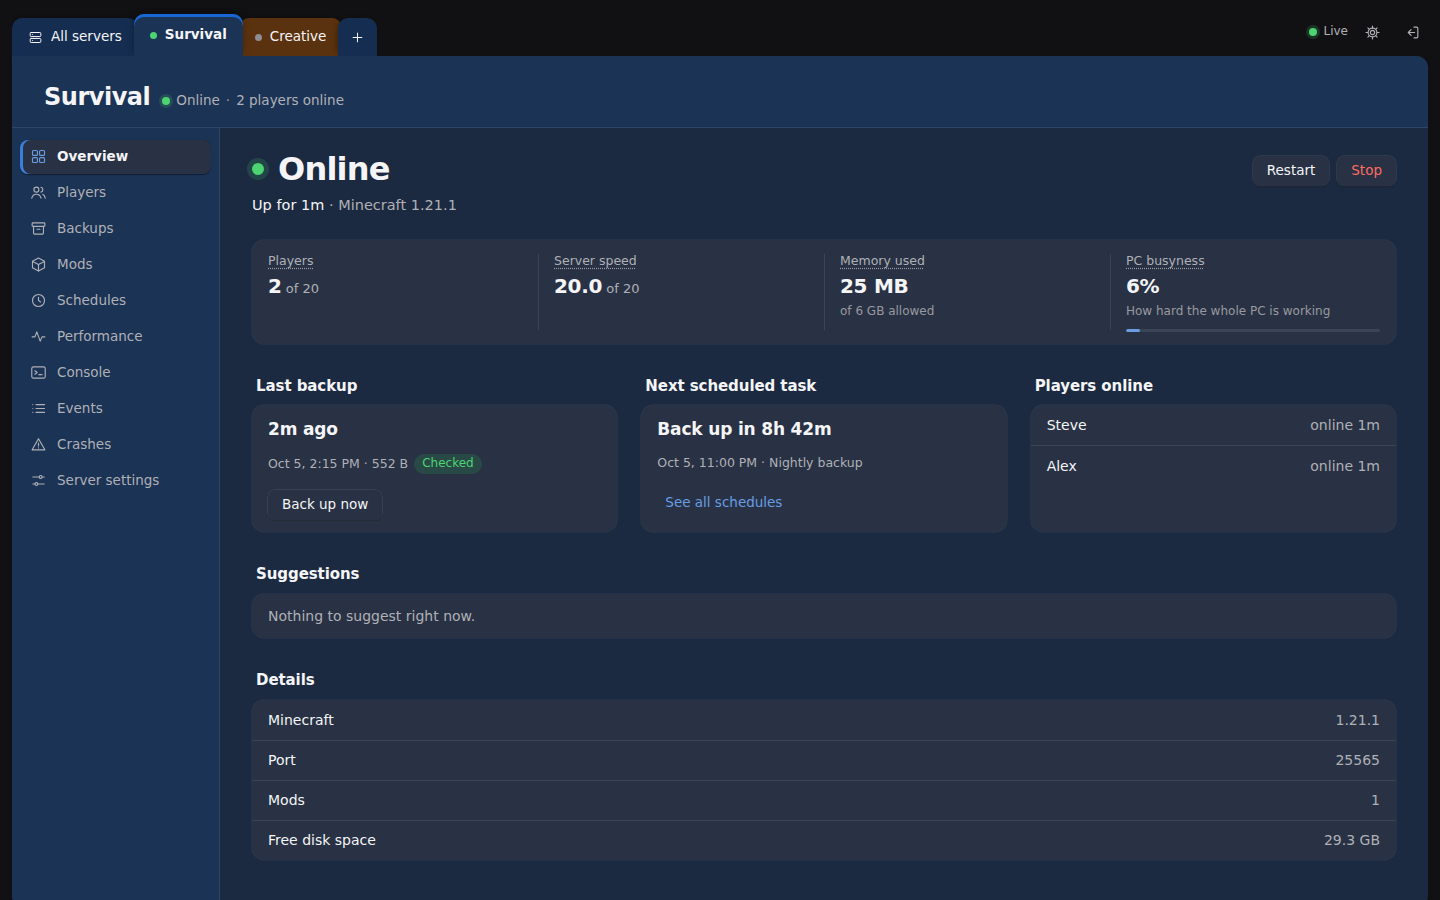
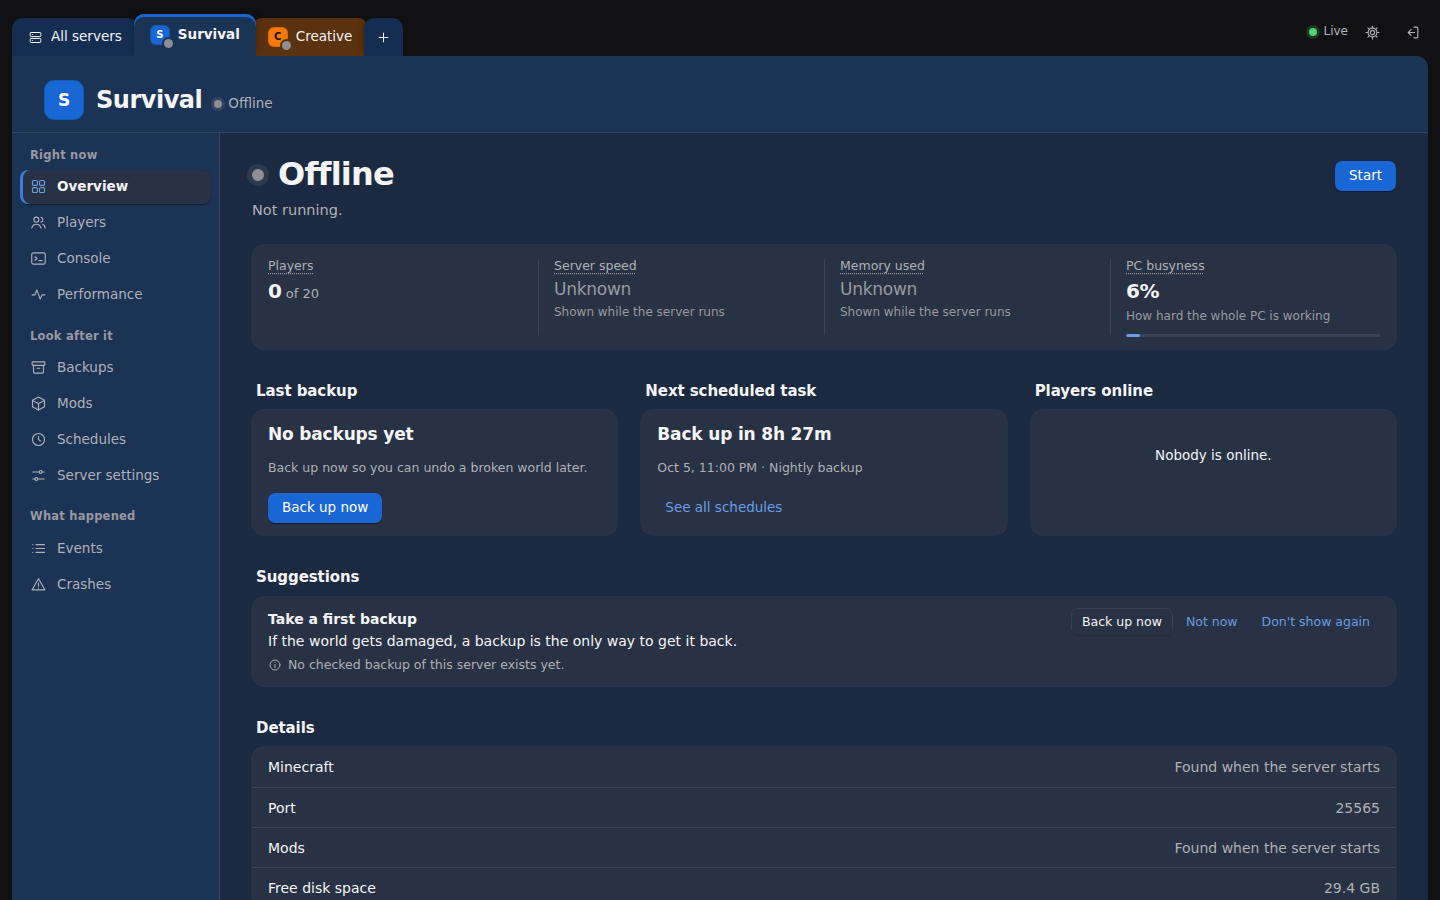
Give the dashboard more personality: server badges, grouped side list, status in the browser tab
- Each server gets a badge (its initials on its color) in its tab, with a
  status dot on the corner, before its name at the top of the page, and on
  its All servers card.
- The side list is grouped under small labels: Right now / Look after it /
  What happened (Live / Manage / History in Technical).
- The browser tab's title names the server's state and its icon gets a
  status dot, so a server can be watched from another tab.
- A crashed server's All servers card is outlined in red.
- Numbers use tabular figures so they line up and don't shift as they update.

diff --git a/agent/web/styles.css b/agent/web/styles.css
@@ -342,6 +342,29 @@ input[type="checkbox"], input[type="radio"] { accent-color: var(--accent); width
 }
 .tab.selected:focus-visible { box-shadow: inset 0 3px 0 var(--tab-edge, var(--accent-edge)), inset 0 0 0 2px var(--accent-ring); }
 .tab .status-dot { width: 7px; height: 7px; box-shadow: none; }
+
+/* A server's badge: its initials on its color (Arc's space icons, Linear's
+   team icons), with its state as a dot on the corner in the tabs. */
+.server-badge {
+  position: relative;
+  display: inline-grid; place-items: center; flex-shrink: 0;
+  width: 26px; height: 26px;
+  border-radius: 7px;
+  background: var(--badge-fill, var(--neutral));
+  color: var(--badge-text, #FFFFFF);
+  font-size: 12px; font-weight: 700; letter-spacing: 0.01em; line-height: 1;
+  box-shadow: inset 0 0 0 1px rgba(0, 0, 0, 0.12);
+  user-select: none;
+}
+.server-badge.sm { width: 20px; height: 20px; border-radius: 6px; font-size: 10px; }
+.server-badge.lg { width: 40px; height: 40px; border-radius: 10px; font-size: 17px; letter-spacing: -0.01em; }
+.server-badge .badge-dot {
+  position: absolute; right: -3px; bottom: -3px;
+  width: 9px; height: 9px;
+  box-shadow: 0 0 0 2px var(--tab-fill, var(--tab-neutral));
+}
+.tab.selected .server-badge .badge-dot { box-shadow: 0 0 0 2px var(--accent-band); }
+.server-badge .badge-dot.pulse { animation: none; }
 .tab.add-tab { padding: 0 12px; }
 .tab-badge {
   display: inline-grid; place-items: center;
@@ -397,7 +420,8 @@ input[type="checkbox"], input[type="radio"] { accent-color: var(--accent); width
   background: var(--accent-band);
   border-radius: 0 var(--radius-lg) 0 0;
 }
-.sheet-id { display: flex; align-items: baseline; gap: var(--space-3); flex-wrap: wrap; }
+.sheet-id { display: flex; align-items: center; gap: var(--space-3); min-width: 0; }
+.sheet-titles { display: flex; align-items: baseline; gap: 4px var(--space-3); flex-wrap: wrap; min-width: 0; }
 .sheet-name { font-family: var(--font-display); font-size: 24px; font-weight: 650; letter-spacing: -0.02em;
               min-width: 0; overflow-wrap: anywhere; }
 .sheet-state { display: inline-flex; align-items: center; gap: 6px; color: var(--text-secondary); font-size: 13.5px; }
@@ -414,6 +438,14 @@ input[type="checkbox"], input[type="radio"] { accent-color: var(--accent); width
   border-radius: 0 0 0 var(--radius-lg);
 }
 .subnav[hidden] { display: none; }
+/* small group labels in the list, like Linear's sidebar */
+.nav-group { display: flex; flex-direction: column; gap: 2px; }
+.nav-group + .nav-group { margin-top: var(--space-3); }
+.nav-group-label {
+  padding: 2px 10px 4px;
+  color: var(--text-tertiary);
+  font-size: 11.5px; font-weight: 600; letter-spacing: 0.02em;
+}
 .nav-item {
   display: flex; align-items: center; gap: 10px;
   min-height: 34px;
@@ -622,7 +654,10 @@ input[type="checkbox"], input[type="radio"] { accent-color: var(--accent); width
 .server-card:focus-visible { box-shadow: inset 0 4px 0 var(--card-color, var(--accent-edge)), var(--focus); border-radius: var(--radius-lg); }
 .server-card-head { display: flex; align-items: center; gap: var(--space-2); margin-top: 4px; }
 .server-card-head strong { flex: 1; min-width: 0; font-size: 15.5px; overflow: hidden; text-overflow: ellipsis; white-space: nowrap; }
-.server-card .swatch { width: 12px; height: 12px; background: var(--card-color, var(--accent-edge)); }
+/* a server that crashed says so from the card itself (Railway's canvas) */
+.server-card.needs-attention { box-shadow: inset 0 4px 0 var(--card-color, var(--accent-edge)), 0 0 0 1.5px var(--danger); }
+.server-card.needs-attention:focus-visible { box-shadow: inset 0 4px 0 var(--card-color, var(--accent-edge)), var(--focus); }
+.server-card.needs-attention .pill { color: var(--danger); font-weight: 600; }
 .facts { display: grid; grid-template-columns: auto 1fr; gap: 4px var(--space-4); margin: var(--space-3) 0 0; font-size: 13px; }
 .facts dt { color: var(--text-secondary); }
 .facts dd { margin: 0; text-align: right; }
@@ -819,7 +854,9 @@ p.hint { margin: var(--space-2) 0 0; }
 
 /* ------------------------------------------------------------------ tables */
 .table-wrap { overflow-x: auto; -webkit-overflow-scrolling: touch; }
-table { width: 100%; border-collapse: collapse; font-size: 13.5px; }
+table { width: 100%; border-collapse: collapse; font-size: 13.5px; font-variant-numeric: tabular-nums; }
+/* numbers line up and don't jiggle as they update (Vercel's dashboards) */
+.stat .value, .facts dd, .sheet-state, .jobs, .num { font-variant-numeric: tabular-nums; }
 th { text-align: left; font-weight: 500; font-size: 12px; color: var(--text-secondary);
      padding: 9px var(--space-4) 7px; border-bottom: 1px solid var(--border); white-space: nowrap; }
 td { padding: 9px var(--space-4); border-bottom: 1px solid var(--border); vertical-align: middle; }
@@ -996,6 +1033,11 @@ td .btn-row { flex-wrap: nowrap; justify-content: flex-end; }
   .subnav::-webkit-scrollbar { display: none; }
   .nav-item { flex-shrink: 0; min-height: 36px; white-space: nowrap; }
   .nav-item .icon { display: none; }
+  .nav-group { flex-direction: row; flex-shrink: 0; }
+  .nav-group + .nav-group { margin-top: 0; margin-left: var(--space-2); padding-left: var(--space-2);
+                            border-left: 1px solid var(--border); }
+  .nav-group-label { display: none; }
+  .server-badge.lg { width: 32px; height: 32px; border-radius: 8px; font-size: 14px; }
   .nav-item[aria-current="page"] { box-shadow: inset 0 -2.5px 0 var(--accent-ring), var(--shadow-control); }
   .sheet-body { padding: var(--space-4) var(--space-4) var(--space-7); }
   .toolbar { flex-wrap: wrap; }

diff --git a/agent/web/js/nav.js b/agent/web/js/nav.js
@@ -5,10 +5,10 @@
 
 import { signOut } from "./auth.js";
 import { applyServerColor } from "./colors.js";
-import { setLink, updateStatusViews } from "./live.js";
+import { setLink, updateStatusViews, updateTitle } from "./live.js";
 import { overview } from "./pages/overview.js";
 import { hooks as prefHooks } from "./prefs.js";
-import { hooks, renderTabs, serverRow, jobsIndicator } from "./servers.js";
+import { hooks, renderTabs, serverBadge, serverRow, jobsIndicator } from "./servers.js";
 import { PAGES, pageEntry, renderers, stateInfo, state } from "./state.js";
 import { t } from "./strings.js";
 import { $, el, icon } from "./ui.js";
@@ -41,8 +41,26 @@ function renderHead() {
   }
   const row = serverRow();
   head.replaceChildren(el("div", { class: "sheet-id" },
-    el("span", { class: "sheet-name", id: "sheet-name" }, row ? row.name : ""),
-    el("span", { class: "sheet-state", id: "sheet-state" })));
+    row ? serverBadge(row, { size: "lg" }) : null,
+    el("div", { class: "sheet-titles" },
+      el("span", { class: "sheet-name", id: "sheet-name" }, row ? row.name : ""),
+      el("span", { class: "sheet-state", id: "sheet-state" }))));
+}
+
+/* The server's pages in three small groups, so the list reads at a glance:
+   what is happening now, looking after the server, and what happened. */
+const NAV_GROUPS = [
+  ["nav.group_live", ["dashboard", "players", "console", "performance"]],
+  ["nav.group_manage", ["backups", "mods", "schedules", "settings"]],
+  ["nav.group_history", ["events", "crashes"]],
+];
+
+function navLink([key, label, , iconName]) {
+  return el("a", {
+    class: "nav-item", href: `#${key}`,
+    "aria-current": state.page === key ? "page" : null,
+    onclick: (event) => { event.preventDefault(); navigate(key); },
+  }, icon(iconName), el("span", { class: "nav-label" }, t(label)));
 }
 
 function renderSubnav() {
@@ -50,11 +68,18 @@ function renderSubnav() {
   const items = PAGES.filter(([, , scope]) => scope === state.scope && scope !== "all" && scope !== "add");
   nav.hidden = !items.length;
   nav.setAttribute("aria-label", state.scope === "server" ? t("nav.server_pages") : t("nav.app_pages"));
-  nav.replaceChildren(...items.map(([key, label, , iconName]) => el("a", {
-    class: "nav-item", href: `#${key}`,
-    "aria-current": state.page === key ? "page" : null,
-    onclick: (event) => { event.preventDefault(); navigate(key); },
-  }, icon(iconName), el("span", { class: "nav-label" }, t(label)))));
+  if (state.scope !== "server") {
+    nav.replaceChildren(...items.map(navLink));
+  } else {
+    const grouped = new Set(NAV_GROUPS.flatMap(([, keys]) => keys));
+    const loose = items.filter(([key]) => !grouped.has(key));
+    nav.replaceChildren(...NAV_GROUPS.map(([labelKey, keys]) => {
+      const id = `nav-${labelKey.split("_").pop()}`;
+      const links = keys.map(pageEntry).filter(Boolean).map(navLink);
+      return el("div", { class: "nav-group", role: "group", "aria-labelledby": id },
+        el("span", { class: "nav-group-label", id }, t(labelKey)), ...links);
+    }), ...loose.map(navLink));
+  }
   const current = nav.querySelector('[aria-current="page"]');
   if (current) current.scrollIntoView({ block: "nearest", inline: "nearest" });
 }
@@ -101,11 +126,11 @@ export function render() {
   const page = $("#page");
   const entry = pageEntry(state.page) || pageEntry("dashboard");
   const title = t(entry[1]);
-  const row = state.scope === "server" ? serverRow() : null;
   $("#page-title").textContent = title;
   // the sheet's heading band names the page; the h1 is for screen readers
   $("#page-title").classList.add("sr-only");
-  document.title = row ? `${row.name} · ${title}` : `${title} · ${t("app.name")}`;
+  state.pageTitle = title;
+  updateTitle();
   clearTimers();
   overview.nodes = null;
   $("#toolbar-actions").replaceChildren();

diff --git a/agent/web/js/servers.js b/agent/web/js/servers.js
@@ -4,7 +4,7 @@
    through api() (see serverPath in api.js). */
 
 import { api } from "./api.js";
-import { derive } from "./colors.js";
+import { badgeColors, derive } from "./colors.js";
 import { renderers, stateInfo, state } from "./state.js";
 import { t, tn } from "./strings.js";
 import { $, el, emptyState, fmt, icon, known, loadInto } from "./ui.js";
@@ -53,6 +53,32 @@ export async function selectServer(id, page = null) {
   else if (switching && hooks.afterSwitch) hooks.afterSwitch();
 }
 
+/* ------------------------------------------------------------ badges */
+
+/* The server's initials: the first letters of its first two words, or the
+   first letter of a one-word name. */
+export function monogram(name) {
+  const words = String(name || "").split(/[^\p{L}\p{N}]+/u).filter(Boolean);
+  if (!words.length) return "";
+  const first = (word) => Array.from(word)[0].toLocaleUpperCase();
+  return words.length > 1 ? first(words[0]) + first(words[1]) : first(words[0]);
+}
+
+/* A small square in the server's color with its initials, so each server
+   is recognisable at a glance in the tabs, the header and the cards. With
+   a tone, a status dot sits on its corner. */
+export function serverBadge(s, { size = "", tone = null, busy = false } = {}) {
+  const badge = el("span", { class: `server-badge${size ? ` ${size}` : ""}`, "aria-hidden": "true" },
+    monogram(s.name),
+    tone ? el("span", { class: `badge-dot status-dot tone-${tone}${busy ? " pulse" : ""}` }) : null);
+  const colors = badgeColors(s.color);
+  if (colors) {
+    badge.style.setProperty("--badge-fill", colors.fill);
+    badge.style.setProperty("--badge-text", colors.text);
+  }
+  return badge;
+}
+
 /* ------------------------------------------------------------ the tabs */
 
 function serverTab(s, selected) {
@@ -67,8 +93,7 @@ function serverTab(s, selected) {
     title: `${s.name}: ${t(info.label)}`,
     onclick: () => selectServer(s.id, state.scope === "server" ? null : "dashboard"),
   },
-    el("span", { class: `status-dot tone-${crashed ? "danger" : info.tone}${info.busy ? " pulse" : ""}`,
-      "aria-hidden": "true" }),
+    serverBadge(s, { size: "sm", tone: crashed ? "danger" : info.tone, busy: info.busy }),
     el("span", { class: "tab-name" }, s.name),
     el("span", { class: "sr-only" }, `, ${crashed ? t("tabs.crashed") : t(info.label)}`),
     crashed ? el("span", { class: "tab-badge", "aria-hidden": "true" }, "!") : null);
@@ -160,11 +185,11 @@ renderers.servers = (page) => loadInto(page, async () => {
     const info = stateInfo(s.state);
     const running = ["ONLINE", "STARTING", "STOPPING"].includes(s.state);
     const card = el("button", {
-      class: "server-card", type: "button",
+      class: `server-card${info.tone === "danger" ? " needs-attention" : ""}`, type: "button",
       onclick: () => selectServer(s.id, "dashboard"),
     },
       el("div", { class: "server-card-head" },
-        el("span", { class: "swatch", "aria-hidden": "true" }),
+        serverBadge(s),
         el("strong", {}, s.name),
         el("span", { class: "pill" },
           el("span", { class: `status-dot tone-${info.tone}${info.busy ? " pulse" : ""}` }), t(info.label))),

diff --git a/agent/web/js/live.js b/agent/web/js/live.js
@@ -3,7 +3,8 @@ import { signOut } from "./auth.js";
 import { navigate, render, renderRail } from "./nav.js";
 import { appendConsoleLine, renderConsoleLines } from "./pages/console.js";
 import { loadLatestCrash, overviewConsoleAppend, overviewUpdate } from "./pages/overview.js";
-import { handleJobEvent, loadServers, selectServer, serverName, updateJobs } from "./servers.js";
+import { setFavicon } from "./colors.js";
+import { handleJobEvent, loadServers, selectServer, serverName, serverRow, updateJobs } from "./servers.js";
 import { stateInfo, state } from "./state.js";
 import { t } from "./strings.js";
 import { $, announce, el, known, toast } from "./ui.js";
@@ -223,5 +224,24 @@ export function updateStatusViews() {
     line.replaceChildren(...parts);
   }
   updateJobs();
+  updateTitle();
   if (state.page === "dashboard") overviewUpdate();
+}
+
+/* The browser tab says how the server is doing, so it can be checked from
+   another tab: the state in the title, and a status dot on the icon. */
+export function updateTitle() {
+  const page = state.pageTitle || t("app.name");
+  const row = state.scope === "server" ? serverRow() : null;
+  if (!row) {
+    document.title = `${page} · ${t("app.name")}`;
+    setFavicon(null);
+    return;
+  }
+  const name = state.status && state.status.state;
+  const info = name ? stateInfo(name) : null;
+  document.title = info && name !== "UNKNOWN" ? `${row.name} (${t(info.label)}) · ${page}` : `${row.name} · ${page}`;
+  const dot = info && info.tone !== "neutral"
+    ? getComputedStyle(document.documentElement).getPropertyValue(`--${info.tone}`).trim() : null;
+  setFavicon(row.color, dot);
 }

diff --git a/agent/web/js/colors.js b/agent/web/js/colors.js
@@ -175,14 +175,29 @@ export function applyServerColor(baseHex) {
   setFavicon(baseHex);
 }
 
-/* The browser tab's icon: the app's cube on the server's color. */
-export function setFavicon(baseHex) {
+/* A server's badge: its color as a fill, with text that reads on it. */
+export function badgeColors(baseHex) {
+  const base = rgb(baseHex);
+  if (!base) return null;
+  const { fill, text } = fillWithText(base);
+  return { fill: hex(fill), text: hex(text) };
+}
+
+/* The browser tab's icon: the app's cube on the server's color, with the
+   server's state as a dot in the corner when it has one (dotHex). */
+let lastFavicon = "";
+export function setFavicon(baseHex, dotHex = null) {
   const base = rgb(baseHex);
   const fill = base ? fillWithText(base) : { fill: [60, 60, 67], text: WHITE };
+  const dot = rgb(dotHex);
   const svg = `<svg xmlns="http://www.w3.org/2000/svg" viewBox="0 0 32 32">`
     + `<rect width="32" height="32" rx="8" fill="${hex(fill.fill)}"/>`
     + `<g fill="none" stroke="${hex(fill.text)}" stroke-width="2.2" stroke-linejoin="round">`
-    + `<path d="M16 5.5l9.5 5.2v10.6L16 26.5l-9.5-5.2V10.7z"/><path d="M6.8 11 16 16l9.2-5M16 16v10"/></g></svg>`;
+    + `<path d="M16 5.5l9.5 5.2v10.6L16 26.5l-9.5-5.2V10.7z"/><path d="M6.8 11 16 16l9.2-5M16 16v10"/></g>`
+    + (dot ? `<circle cx="25" cy="25" r="6.5" fill="${hex(dot)}" stroke="#FFFFFF" stroke-width="2"/>` : "")
+    + `</svg>`;
+  if (svg === lastFavicon) return;
+  lastFavicon = svg;
   let link = document.querySelector("link[rel=icon]");
   if (!link) {
     link = document.createElement("link");

diff --git a/agent/web/js/strings.js b/agent/web/js/strings.js
@@ -33,6 +33,9 @@ export const STRINGS = /* strings-table */ {
 
   "nav.server_pages": ["Pages for this server", "Pages for this server"],
   "nav.app_pages": ["Pages for this app", "Pages for this app"],
+  "nav.group_live": ["Right now", "Live"],
+  "nav.group_manage": ["Look after it", "Manage"],
+  "nav.group_history": ["What happened", "History"],
 
   "tabs.label": ["Servers", "Servers"],
   "tabs.crashed": ["crashed", "crashed"],

diff --git a/agent/web/js/state.js b/agent/web/js/state.js
@@ -22,6 +22,8 @@ export const state = {
   paused: false,
   filter: "",
   page: "dashboard",
+  // the current page's name, for the browser tab's title
+  pageTitle: "",
   socket: null,
   connected: false,
   reconnectDelay: 1000,

diff --git a/docs/dashboard.md b/docs/dashboard.md
@@ -9,10 +9,18 @@ Each server has a tab across the top, like the dividers in a folder, with
 **All servers** on the left and **+** (add a server) on the right. The whole
 page under a tab takes that server's color: the header, the page itself and
 its cards are all tinted with it, and its buttons are filled with it. The
-server's own pages (Overview, Players, Backups, Mods, Schedules,
-Performance, Console, Events, Crashes, Server settings) are listed down the
-left side of the page, under its name. The browser tab's icon takes the
-server's color too. Left/Right arrow keys move between tabs, Home and End
+server's own pages are listed down the left side of the page, under its
+name, in three groups: **Right now** (Overview, Players, Console,
+Performance), **Look after it** (Backups, Mods, Schedules, Server settings)
+and **What happened** (Events, Crashes). Technical mode calls them Live,
+Manage and History.
+
+Each server has a badge: its initials on its color. It is on the server's
+tab, with a dot on its corner for the server's state, before its name at the
+top of the page, and on its card under **All servers**. The browser tab
+shows the state too: its title names it (for example "Survival (Online) ·
+Overview") and its icon, in the server's color, gets a green, amber or red
+dot, so you can keep an eye on a server from another tab. Left/Right arrow keys move between tabs, Home and End
 jump to the ends, and the dashboard remembers the last server you looked at.
 
 Every server has one of twelve colors, or any color you pick, set in
@@ -23,10 +31,12 @@ contrast keeps the tint faint.
 
 If another server crashes, its tab gets a red **!**, and a message names it
 with a button to switch to it. **All servers** shows one card per server with
-its state, players, uptime and port.
+its state, players, uptime and port; a crashed server's card is outlined in
+red.
 
 On a phone, the tabs scroll sideways, and the page list becomes a row under
-the server's name that scrolls sideways too; nothing on a page is wider than
+the server's name that scrolls sideways too, with thin lines between the
+groups; nothing on a page is wider than
 the screen.
 
 ## Settings for this app (the gear)
